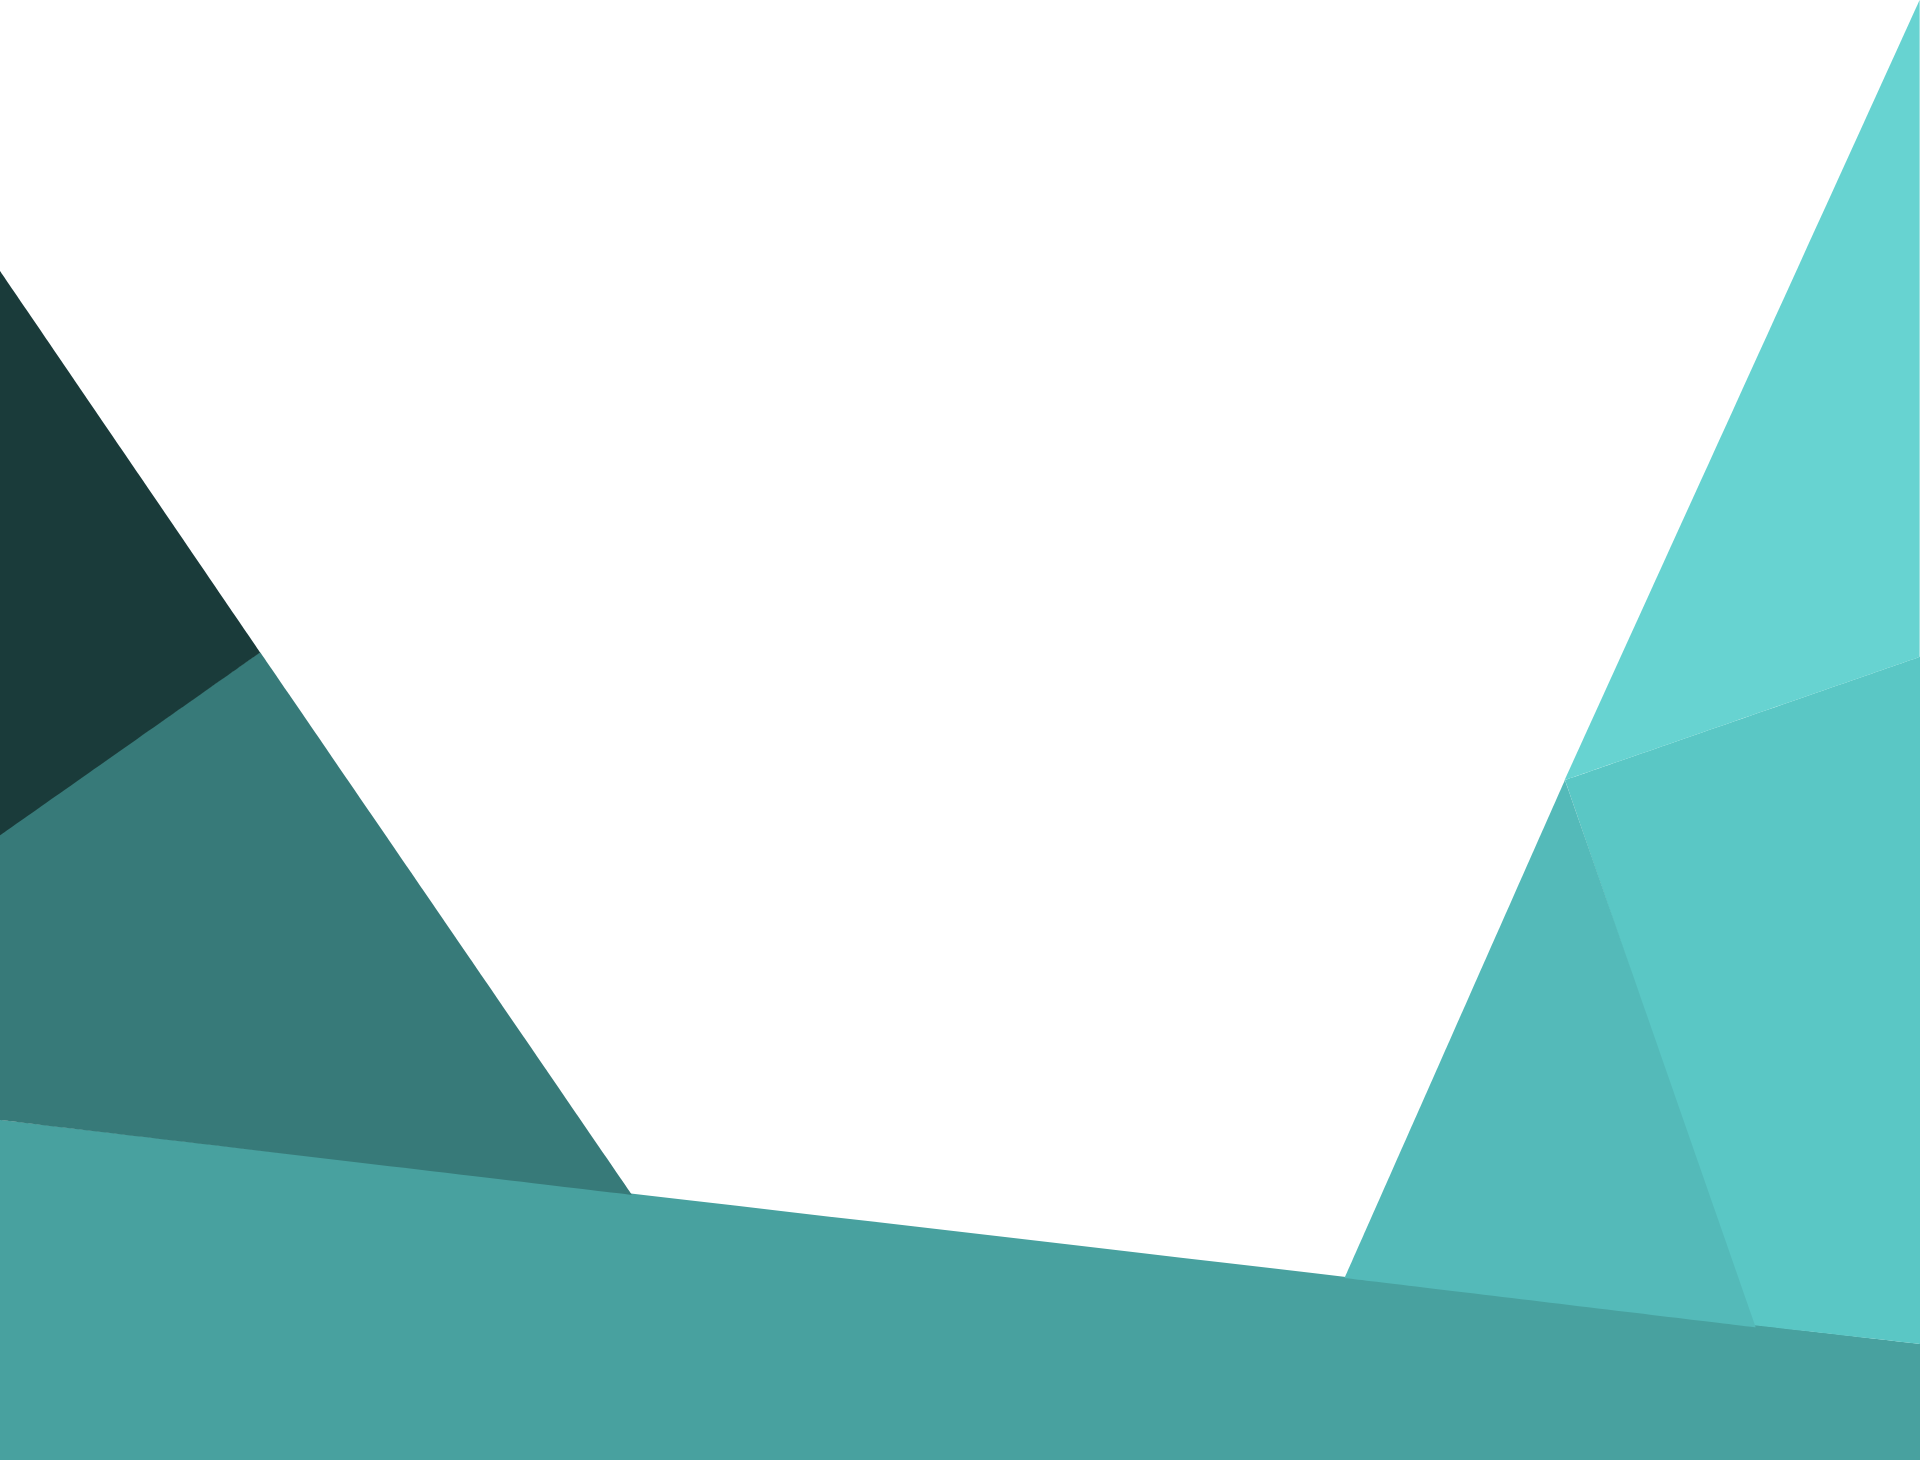
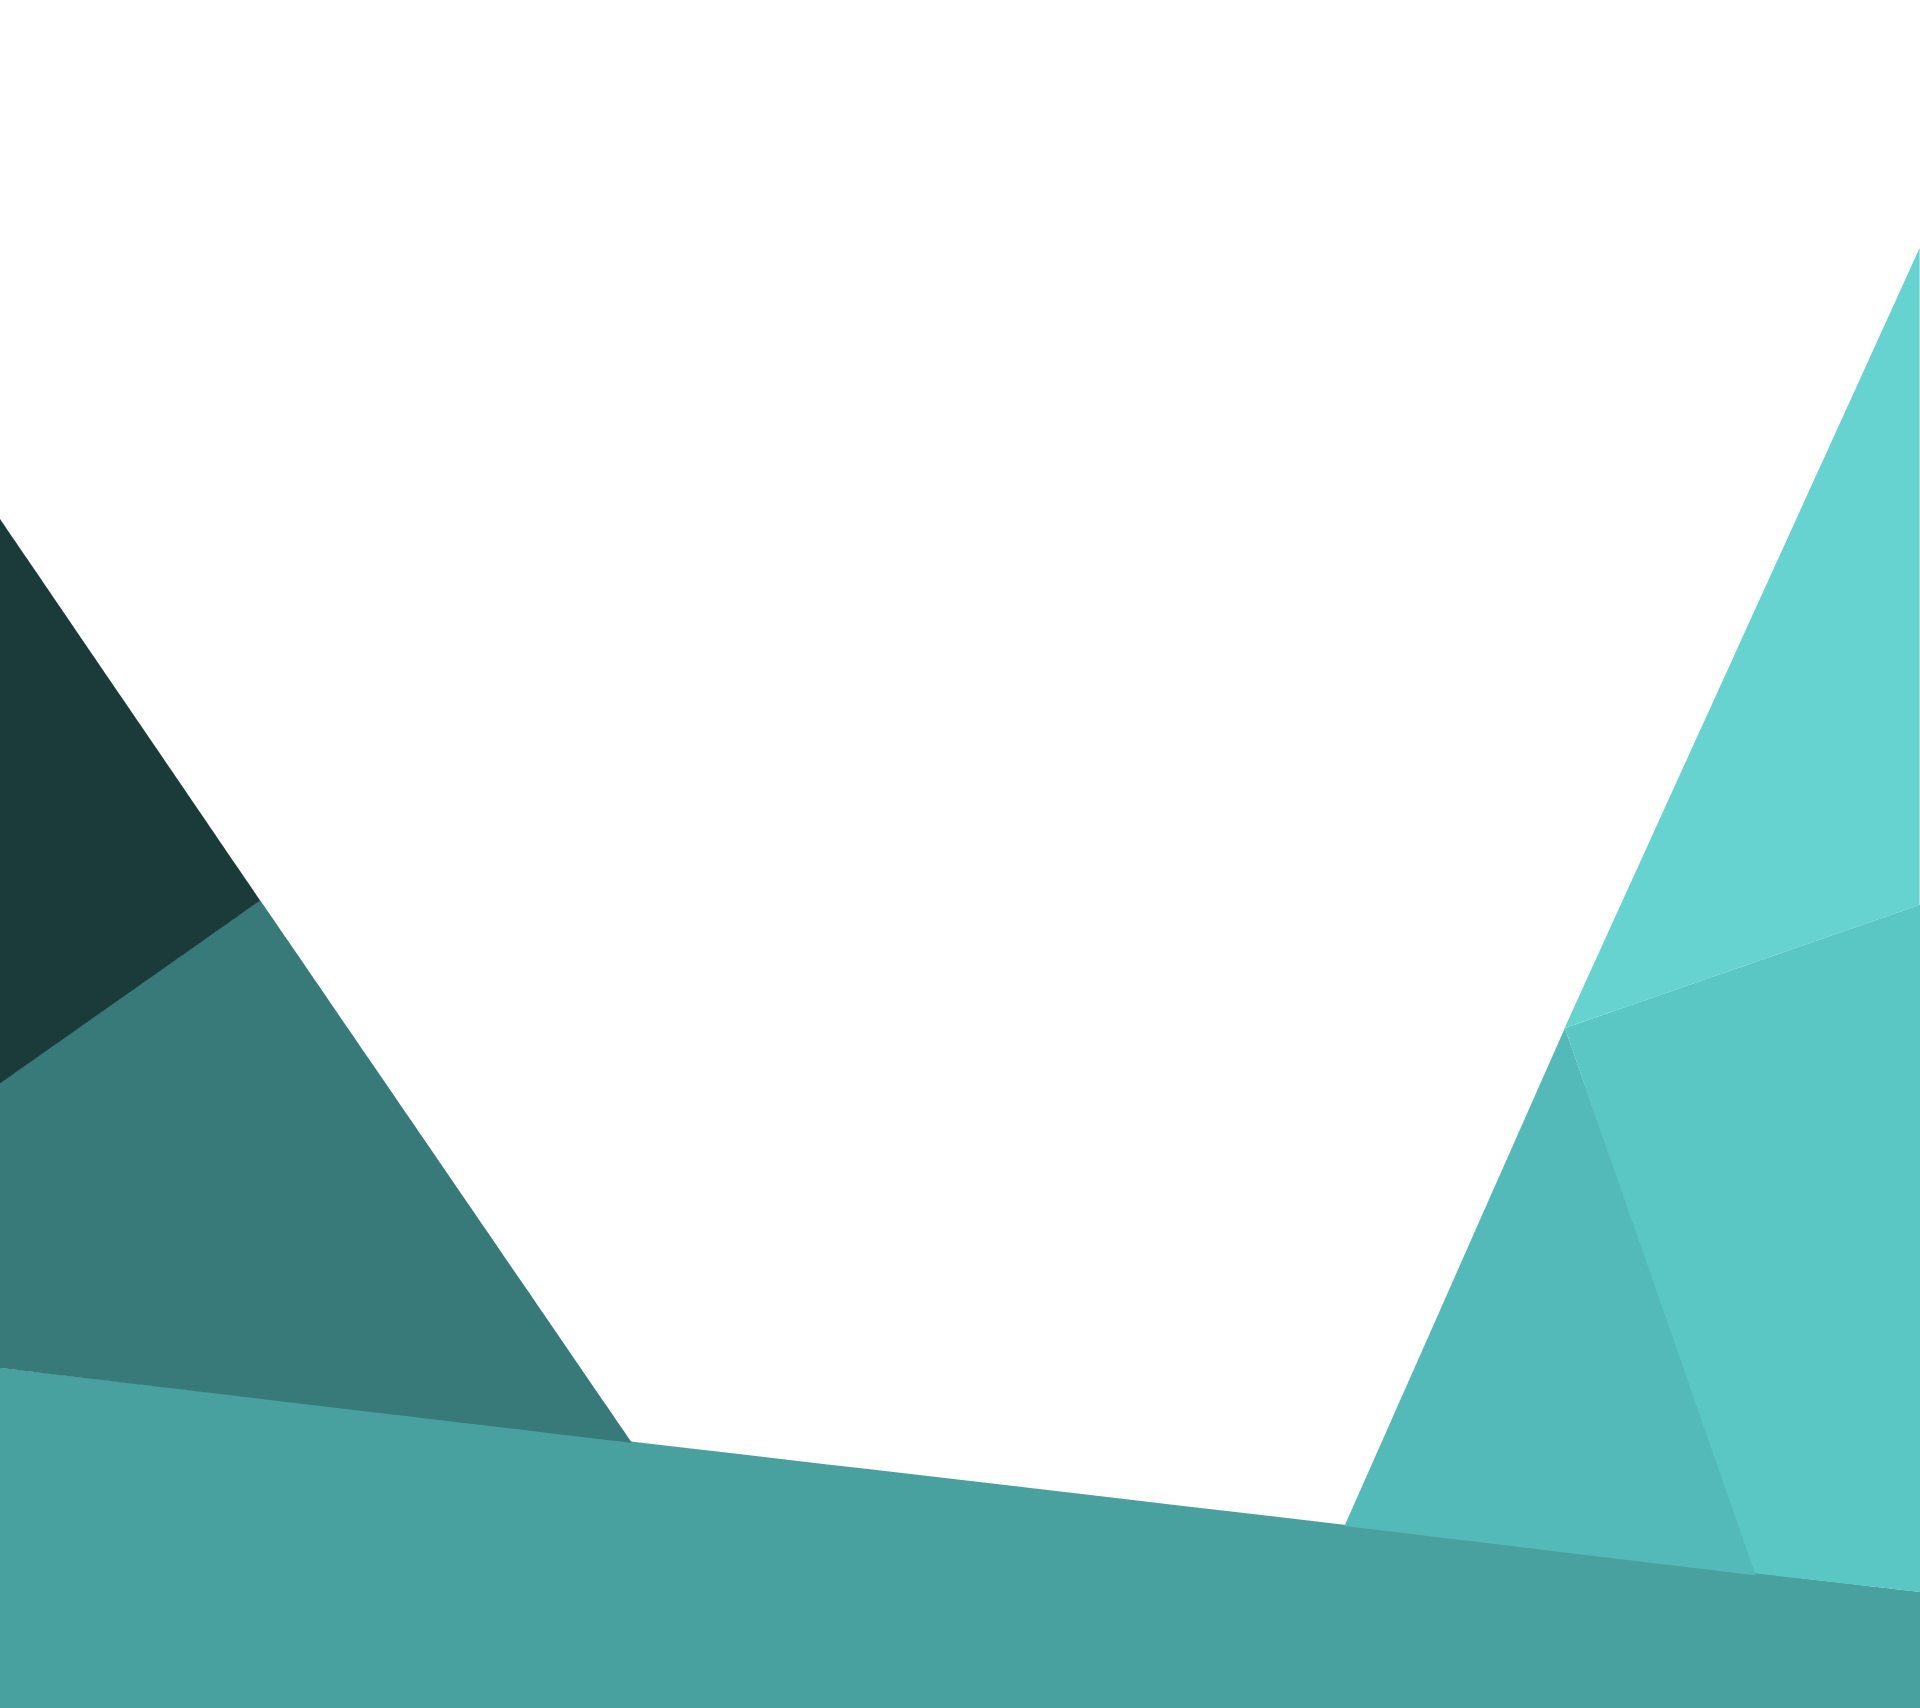
background image

Changed region(s): [[0.0, 0.1849, 1.0, 0.9555], [0.7188, 0.0, 1.0, 0.8322]]

diff --git a/style.css b/style.css
@@ -46,7 +46,7 @@ h5 {
 }
 
 .body {
-  margin-top: 17%;
+  padding-top: 17%;
   background: url('images/background_body.png') no-repeat;
   background-size: cover;
   min-height: 100vh;
